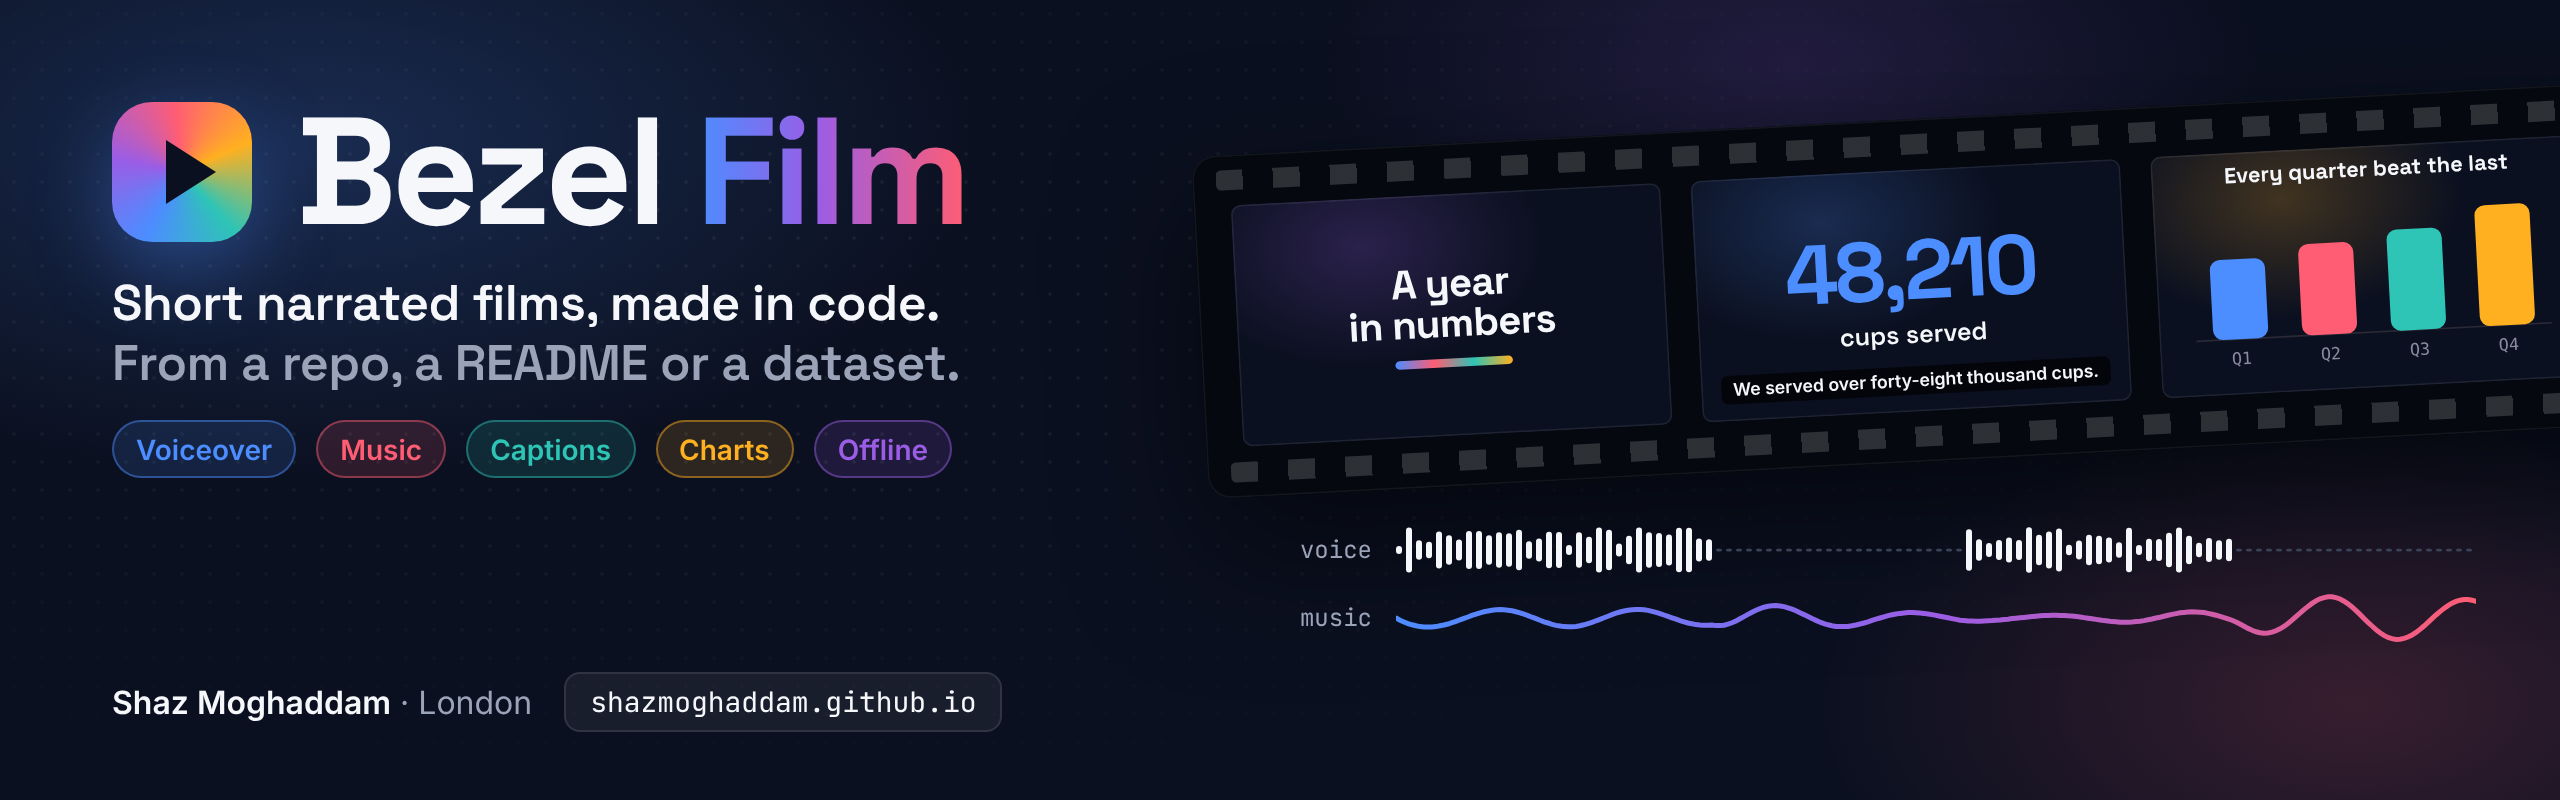
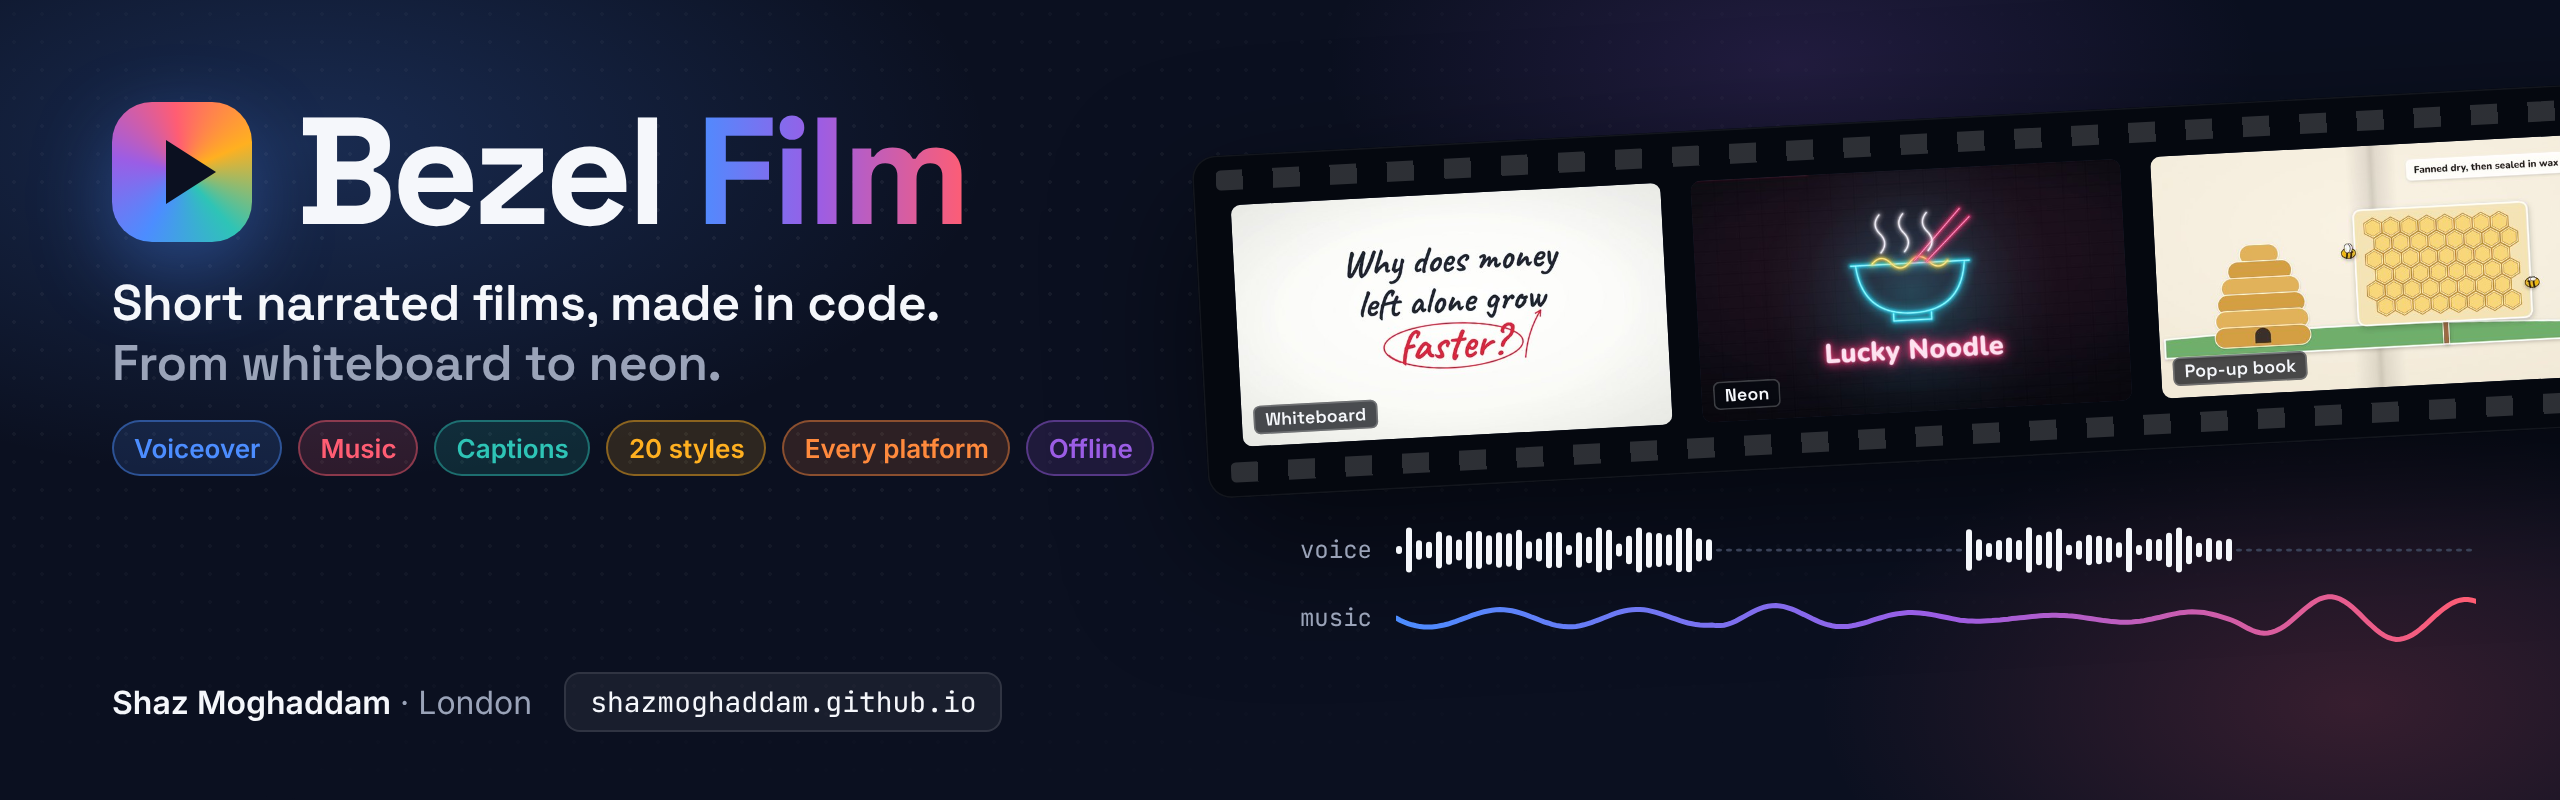
Release 1.0.0
All twenty styles are in. Bumps the version to 1.0.0 and dates the
changelog.

- A gallery of all twenty styles in the README (docs/styles.jpg).
- A new README banner and social preview: the film strip now shows
  real stills from the example films in different styles, and the
  tagline says "From whiteboard to neon."
- The banner source now uses the FONTS/ placeholder the build script
  fills in, instead of paths from one computer, and no longer needs
  Bezel Charts.
- The roadmap marks 1.0.0 released.

Changed region(s): [[0.0312, 0.2188, 0.8125, 0.625], [0.8125, 0.1562, 1.0, 0.5]]

diff --git a/docs/banner.html b/docs/banner.html
@@ -3,11 +3,11 @@
 <head>
 <meta charset="utf-8">
 <style>
-@font-face{font-family:"Space Grotesk";font-weight:700;src:url(file:///home/claude/bezel-film-repo/node_modules/@fontsource/space-grotesk/files/space-grotesk-latin-700-normal.woff2)}
-@font-face{font-family:"Space Grotesk";font-weight:600;src:url(file:///home/claude/bezel-film-repo/node_modules/@fontsource/space-grotesk/files/space-grotesk-latin-600-normal.woff2)}
-@font-face{font-family:"Inter";font-weight:400;src:url(file:///home/claude/bezel-film-repo/node_modules/@fontsource/inter/files/inter-latin-400-normal.woff2)}
-@font-face{font-family:"Inter";font-weight:600;src:url(file:///home/claude/bezel-film-repo/node_modules/@fontsource/inter/files/inter-latin-600-normal.woff2)}
-@font-face{font-family:"JetBrains Mono";font-weight:400;src:url(file:///home/claude/bezel-film-repo/node_modules/@fontsource/jetbrains-mono/files/jetbrains-mono-latin-400-normal.woff2)}
+@font-face{font-family:"Space Grotesk";font-weight:700;src:url(FONTS/space-grotesk/files/space-grotesk-latin-700-normal.woff2)}
+@font-face{font-family:"Space Grotesk";font-weight:600;src:url(FONTS/space-grotesk/files/space-grotesk-latin-600-normal.woff2)}
+@font-face{font-family:"Inter";font-weight:400;src:url(FONTS/inter/files/inter-latin-400-normal.woff2)}
+@font-face{font-family:"Inter";font-weight:600;src:url(FONTS/inter/files/inter-latin-600-normal.woff2)}
+@font-face{font-family:"JetBrains Mono";font-weight:400;src:url(FONTS/jetbrains-mono/files/jetbrains-mono-latin-400-normal.woff2)}
 :root{--bg:#0B1020;--surface:#151B2E;--text:#F5F7FB;--muted:#9AA3B8;--p0:#4C8DFF;--p1:#FF5D73;--p2:#2EC4B6;--p3:#FFB020;--p4:#9B5DE5;--p5:#7BD389;--p6:#FF8A3D}
 *{box-sizing:border-box;margin:0;padding:0}
 html,body{width:100%;height:100%;overflow:hidden;background:var(--bg);color:var(--text);font-family:Inter,sans-serif;-webkit-font-smoothing:antialiased}
@@ -38,20 +38,10 @@ h1 span{background:linear-gradient(90deg,var(--p0),var(--p4) 45%,var(--p1));-web
   background:repeating-linear-gradient(90deg,rgb(255 255 255/.16) 0 16px,transparent 16px 34px);border-radius:3px}
 .strip::before{top:9px}.strip::after{bottom:9px}
 .frame{width:256px;height:144px;flex:none;border-radius:6px;overflow:hidden;position:relative;background:var(--bg);
-  display:flex;flex-direction:column;align-items:center;justify-content:center;text-align:center;padding:12px;
   box-shadow:inset 0 0 0 1px rgb(255 255 255/.08)}
-.frame::before{content:"";position:absolute;inset:0;background:radial-gradient(60% 70% at 30% 20%,color-mix(in srgb,var(--c,var(--p0)) 22%,transparent),transparent 70%)}
-.frame > *{position:relative}
-.f-title{font-family:"Space Grotesk";font-weight:700;font-size:24px;letter-spacing:-.02em;line-height:1}
-.f-rule{width:70px;height:5px;border-radius:9px;margin-top:9px;background:linear-gradient(90deg,var(--p0),var(--p1),var(--p2),var(--p3))}
-.f-stat{font-family:"Space Grotesk";font-weight:700;font-size:50px;letter-spacing:-.04em;line-height:.95;color:var(--c)}
-.f-label{font-family:"Space Grotesk";font-weight:600;font-size:15px;margin-top:4px}
-.f-heading{font-family:"Space Grotesk";font-weight:700;font-size:13px;margin-bottom:5px}
-.f-chart{width:228px}
-.f-caption{position:absolute;bottom:10px;left:50%;transform:translateX(-50%);white-space:nowrap;font-weight:600;font-size:10.5px;padding:2px 7px;border-radius:4px;background:rgb(0 0 0/.65)}
-.f-points{list-style:none;text-align:left;display:flex;flex-direction:column;gap:7px}
-.f-points li{display:flex;align-items:center;gap:8px;font-weight:600;font-size:13px}
-.f-points i{width:9px;height:9px;border-radius:50%;background:var(--c);box-shadow:0 0 8px var(--c)}
+.frame img{position:absolute;inset:0;width:100%;height:100%;object-fit:cover;display:block}
+.frame::after{content:attr(data-style);position:absolute;left:7px;bottom:7px;font-family:"Space Grotesk";font-weight:600;font-size:10.5px;
+  letter-spacing:.01em;color:#F5F7FB;padding:2px 7px;border-radius:4px;background:rgb(5 8 15/.72);box-shadow:inset 0 0 0 1px rgb(255 255 255/.22)}
 
 /* Soundtrack lane */
 .lane{position:absolute;z-index:2;display:flex;flex-direction:column;gap:8px}
@@ -76,7 +66,8 @@ h1 span{background:linear-gradient(90deg,var(--p0),var(--p4) 45%,var(--p1));-web
 .banner .mark{width:70px;height:70px;border-radius:20px}
 .banner .mark::after{border-left-width:25px;border-top-width:16px;border-bottom-width:16px}
 .banner .tagline{font-size:25px;max-width:440px}
-.banner .chip{font-size:14px;padding:5px 11px}
+.banner .chip{font-size:13px;padding:5px 10px}
+.banner .chips{gap:8px;flex-wrap:nowrap}
 .banner .brand{left:56px;top:50px;gap:14px}
 .banner .chip.agent{display:none}
 .banner .strip{left:600px;top:62px;transform:rotate(-3deg) scale(.84);transform-origin:left center}
@@ -91,26 +82,26 @@ h1 span{background:linear-gradient(90deg,var(--p0),var(--p4) 45%,var(--p1));-web
 
 <div class="brand">
   <div class="mark-row"><div class="mark"></div><h1>Bezel <span>Film</span></h1></div>
-  <p class="tagline">Short narrated films, made in code. <em>From a repo, a README or a dataset.</em></p>
+  <p class="tagline">Short narrated films, made in code. <em>From whiteboard to neon.</em></p>
   <div class="chips">
     <span class="chip" style="--c:var(--p0)">Voiceover</span>
     <span class="chip" style="--c:var(--p1)">Music</span>
     <span class="chip" style="--c:var(--p2)">Captions</span>
-    <span class="chip" style="--c:var(--p3)">Charts</span>
+    <span class="chip" style="--c:var(--p3)">20 styles</span>
+    <span class="chip" style="--c:var(--p6)">Every platform</span>
     <span class="chip" style="--c:var(--p4)">Offline</span>
     <span class="chip agent" style="--c:var(--p5)">Any coding agent</span>
   </div>
 </div>
 
 <div class="strip">
-  <div class="frame" style="--c:var(--p4)"><div class="f-title">A year<br>in numbers</div><div class="f-rule"></div></div>
-  <div class="frame" style="--c:var(--p0)"><div class="f-stat">48,210</div><div class="f-label">cups served</div><div class="f-caption">We served over forty-eight thousand cups.</div></div>
-  <div class="frame" style="--c:var(--p3)"><div class="f-heading">Every quarter beat the last</div><bezel-chart class="f-chart" id="bars"></bezel-chart></div>
-  <div class="frame" style="--c:var(--p1)"><div class="f-heading">Lattes lead the way</div><bezel-chart class="f-chart" id="donut"></bezel-chart></div>
-  <div class="frame" style="--c:var(--p2)"><ul class="f-points">
-    <li style="--c:var(--p2)"><i></i>Voice timed to every scene</li>
-    <li style="--c:var(--p1)"><i></i>Music that dips under it</li>
-    <li style="--c:var(--p3)"><i></i>Same film, every time</li></ul></div>
+  <div class="frame" data-style="Whiteboard"><img src="banner/whiteboard.jpg" alt=""></div>
+  <div class="frame" data-style="Neon"><img src="banner/neon.jpg" alt=""></div>
+  <div class="frame" data-style="Pop-up book"><img src="banner/pop-up-book.jpg" alt=""></div>
+  <div class="frame" data-style="Pixel game"><img src="banner/pixel-game.jpg" alt=""></div>
+  <div class="frame" data-style="Pop art"><img src="banner/pop-art.jpg" alt=""></div>
+  <div class="frame" data-style="Manga"><img src="banner/manga.jpg" alt=""></div>
+  <div class="frame" data-style="Isometric world"><img src="banner/isometric.jpg" alt=""></div>
 </div>
 
 <div class="lane">
@@ -120,19 +111,7 @@ h1 span{background:linear-gradient(90deg,var(--p0),var(--p4) 45%,var(--p1));-web
 
 <div class="by"><span><strong>Shaz Moghaddam</strong> · London</span><span class="url">shazmoghaddam.github.io</span></div>
 
-<script src="file:///home/claude/bezel-film-repo/node_modules/bezel-charts/dist/bezel-charts.iife.js"></script>
 <script>
-const palette = "#4C8DFF,#FF5D73,#2EC4B6,#FFB020,#9B5DE5,#7BD389,#FF8A3D";
-for (const [id, type, data] of [
-  ["bars", "bars", { values: [9800, 11200, 12400, 14810], labels: ["Q1", "Q2", "Q3", "Q4"] }],
-  ["donut", "donut", { values: [18300, 11600, 8700, 5800, 3810], labels: ["Latte", "Mocha", "Chai", "Tea", "Other"], "center-label": "orders" }],
-]) {
-  const el = document.getElementById(id);
-  for (const [k, v] of Object.entries({ type, theme: "dark", frame: "none", background: "transparent", color: palette, compact: "", "no-tooltips": "", static: "", width: "228", height: type === "bars" ? "96" : "104" })) el.setAttribute(k, v);
-  const { "center-label": centre, ...rest } = data;
-  if (centre) el.setAttribute("center-label", centre);
-  el.data = rest;
-}
 // The soundtrack lane: voice in bursts (one per sentence), music as a smooth, continuous wave.
 let seed = 7; const rnd = () => ((seed = (seed * 16807) % 2147483647) / 2147483647);
 const W = document.body.classList.contains("social") ? 1080 : 540, H = 26;

diff --git a/scripts/build-banner.ts b/scripts/build-banner.ts
@@ -4,14 +4,13 @@ import { chromium } from "playwright-core";
 
 /**
  * Renders docs/banner.html into the README banner (docs/banner.png, 2560 x 800) and the
- * GitHub social preview (docs/social-preview.png, 1280 x 640). Uses the same fonts, colours
- * and Bezel Charts as the films. Run with `npm run banner` after `npx bezel-film setup`.
+ * GitHub social preview (docs/social-preview.png, 1280 x 640). The film strip shows real
+ * stills from the example films (docs/banner/), in the same fonts and colours as the films.
+ * Run with `npm run banner` after `npx bezel-film setup`.
  */
 const root = fileURLToPath(new URL("..", import.meta.url));
 const modules = `${root}node_modules`;
-const template = (await readFile(`${root}docs/banner.html`, "utf8"))
-  .replaceAll("FONTS/", `file://${modules}/@fontsource/`)
-  .replace("CHARTS", `file://${modules}/bezel-charts/dist/bezel-charts.iife.js`);
+const template = (await readFile(`${root}docs/banner.html`, "utf8")).replaceAll("FONTS/", `file://${modules}/@fontsource/`);
 
 const browser = await chromium.launch({
   executablePath: process.env.BEZEL_FILM_CHROME,
@@ -26,9 +25,9 @@ try {
     await writeFile(page, template.replace("MODE", mode));
     const tab = await browser.newPage({ viewport: { width, height }, deviceScaleFactor: scale });
     await tab.goto(`file://${page}`);
-    // Wait for the fonts and for every chart to draw (in-page code, passed as text).
+    // Wait for the fonts and every still to load (in-page code, passed as text).
     await tab.evaluate("document.fonts.ready");
-    await tab.waitForFunction('[...document.querySelectorAll("bezel-chart")].every((el) => el.shadowRoot?.querySelector("svg"))');
+    await tab.waitForFunction("[...document.images].every((img) => img.complete && img.naturalWidth > 0)");
     await tab.screenshot({ path: `${root}docs/${out}` });
     await tab.close();
     await rm(page);

diff --git a/README.md b/README.md
@@ -1,4 +1,4 @@
-[![Bezel Film: short narrated films, made in code. A film strip of scenes (a title card, a big number, a bar chart, a donut chart) above a soundtrack of voice and music. By Shaz Moghaddam, London.](docs/banner.png)](https://shazmoghaddam.github.io/)
+[![Bezel Film: short narrated films, made in code, from whiteboard to neon. A film strip of scenes in different styles (a whiteboard, a neon sign, a pop-up book) above a soundtrack of voice and music. By Shaz Moghaddam, London.](docs/banner.png)](https://shazmoghaddam.github.io/)
 
 # Bezel Film
 
@@ -64,7 +64,13 @@ It reads the README, `package.json` or `pyproject.toml`, the changelog and (for 
 - **Private and offline.** After the one-time download, nothing leaves your computer.
 - **Smooth and repeatable.** Every frame is drawn on a frozen clock, so films look the same on any computer, every time.
 
-> **Styles:** twenty-one, from whiteboard explainers and 1930s cartoons to neon signs, pixel games and green-screen terminals. More are on the [roadmap](#roadmap).
+## Twenty kinds of film
+
+Each style is a different kind of film, not just a new colour scheme. Here's the opening of each one's example film, every frame drawn in code:
+
+[![The opening frames of twenty example films, one per style: Whiteboard, Stick figures, Isometric world, Blueprint, Data on paper, 1950s cartoon, 1930s cartoon, Manga, Pop-up book, Crayon book, Origami, Paper lantern, Watercolour, Swiss poster, Pop art, Risograph, Neon, Dark keynote, Pixel game and Retro terminal](docs/styles.jpg)](#styles-and-fonts)
+
+Plus `data-story`, the clean, chart-led look of the ready-made scenes. See them all in [Styles and fonts](#styles-and-fonts), and the films themselves in [`examples/`](examples).
 
 ## Reference
 
@@ -379,7 +385,7 @@ On Linux, the voice engine also tries to download large GPU files it doesn't nee
 - **v0.7.0 (released):** four more styles: Data on paper, 1950s cartoon, 1930s cartoon and Manga
 - **v0.8.0 (released):** four paper and craft styles: Pop-up book, Crayon book, Origami and Paper lantern
 - **v0.9.0 (released):** four bold and graphic styles: Watercolour, Swiss poster, Pop art and Risograph
-- **v1.0.0:** the last four styles: Neon, Dark keynote, Pixel game and Retro terminal. All twenty styles are in
+- **v1.0.0 (released):** the last four styles: Neon, Dark keynote, Pixel game and Retro terminal. All twenty styles are in, and every example film works on phones, in feeds and on YouTube. From here on, film files and the scene kit follow semantic versioning
 - **After v1.0.0:** Chalkboard, a bonus style built on Whiteboard
 
 ## Contributing

diff --git a/CHANGELOG.md b/CHANGELOG.md
@@ -3,7 +3,9 @@
 All notable changes to Bezel Film are listed here.
 The format follows [Keep a Changelog](https://keepachangelog.com/en/1.1.0/), and versions follow [Semantic Versioning](https://semver.org/).
 
-## [Unreleased]
+## [1.0.0] - 2026-11-25
+
+All twenty styles are in. Bezel Film now makes twenty different kinds of film, from whiteboard explainers and pop-up books to neon signs and green-screen terminals, and every example film works on phones, in feeds and on YouTube. From this release on, film files and the scene kit follow semantic versioning: anything that works in 1.0.0 keeps working until 2.0.0.
 
 ### Added
 
@@ -15,6 +17,7 @@ The format follows [Keep a Changelog](https://keepachangelog.com/en/1.1.0/), and
 - More in the scene kit: neon tubes (`kit.neon`), phone, laptop and browser frames to show an app in (`kit.device`), pixel art from text (`kit.pixels`) and typed text with a cursor (`kit.typing`).
 - Two new font pairings: `pixel` (Press Start 2P and VT323) and `terminal` (VT323), bundled from Fontsource.
 - A "Design for every shape" section in the scenes guide: how to lay out a scene so it works on a phone, in a feed and on YouTube.
+- A gallery of all twenty styles in the README, and a new README banner and social preview showing films in different styles.
 - `npm run example:shapes` previews every example film made with custom scenes in 16:9, TikTok, 4:5 and square frames and fails if any check fails. It takes about 15 minutes, so it's for before a release rather than every push.
 
 ### Changed
@@ -302,7 +305,8 @@ The first release: describe a film in one JSON file, and Bezel Film renders it t
 
 - CI checks on every push and pull request, including a render smoke test, plus Dependabot.
 
-[Unreleased]: https://github.com/ShazMoghaddam/bezel-film/compare/v0.9.0...HEAD
+[Unreleased]: https://github.com/ShazMoghaddam/bezel-film/compare/v1.0.0...HEAD
+[1.0.0]: https://github.com/ShazMoghaddam/bezel-film/compare/v0.9.0...v1.0.0
 [0.9.0]: https://github.com/ShazMoghaddam/bezel-film/compare/v0.8.0...v0.9.0
 [0.8.0]: https://github.com/ShazMoghaddam/bezel-film/compare/v0.7.0...v0.8.0
 [0.7.0]: https://github.com/ShazMoghaddam/bezel-film/compare/v0.6.0...v0.7.0

diff --git a/CONTRIBUTING.md b/CONTRIBUTING.md
@@ -39,7 +39,7 @@ To render the example film: `npx tsx src/cli.ts render examples/northside-coffee
 | `instruments/` | Recorded instruments for the music. Built by `npm run instruments`; don't edit by hand. |
 | `maps/` | World outlines and places from Natural Earth. Built by `npm run maps`, from a pinned version with checked fingerprints; don't edit by hand. |
 | `examples/` | Example films, checked in CI. Each style made for custom scenes has one, named after it. |
-| `docs/` | The README banner and social preview, built from `docs/banner.html` by `npm run banner`, and the demo (`welcome.gif`, `welcome.mp4`), built by `npm run demo`. |
+| `docs/` | The README banner and social preview, built from `docs/banner.html` (with stills from the example films in `docs/banner/`) by `npm run banner`, the styles gallery (`styles.jpg`), and the demo (`welcome.gif`, `welcome.mp4`), built by `npm run demo`. |
 
 ## Trying `init`
 
